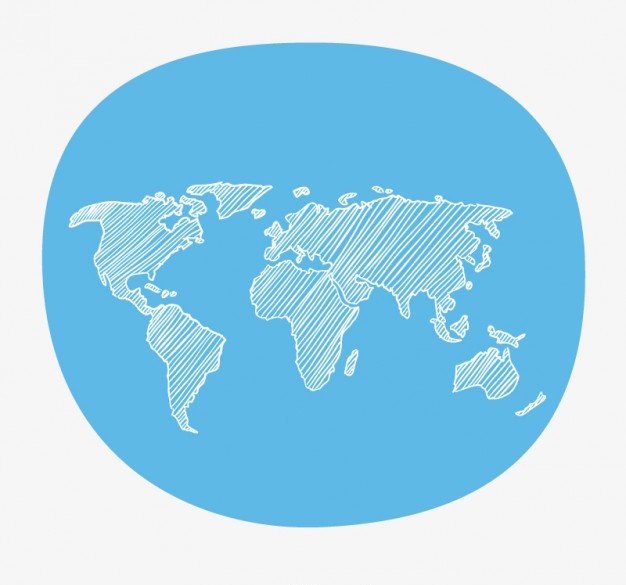
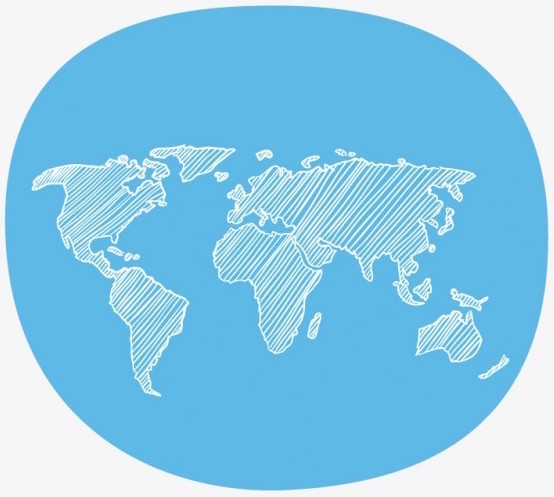
width and height of world img

diff --git a/travel.html b/travel.html
@@ -41,7 +41,7 @@
 	</nav>
 
 	<h1 class="name">Travel</h1>
-	<img style="width:80%" src='media/world.jpg' alt="">
+	<img width="60%" height="20%" src='media/world.jpg' alt="">
 
 	<h1><small>Toronto</small></h1>
 	<img style="width:25%" src="media/travel/toronto1.jpg" alt="">
